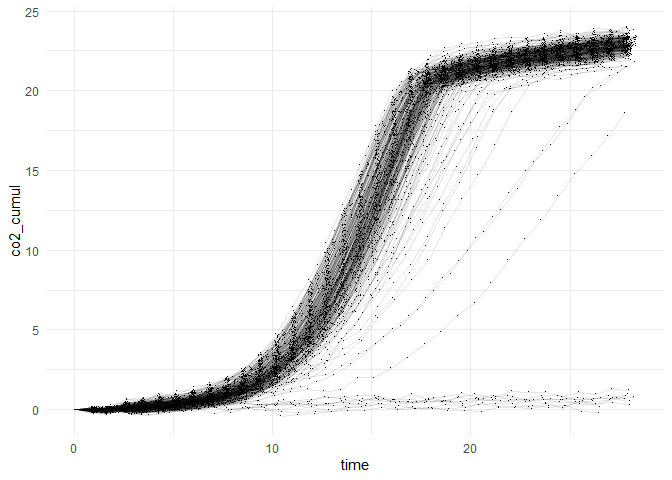
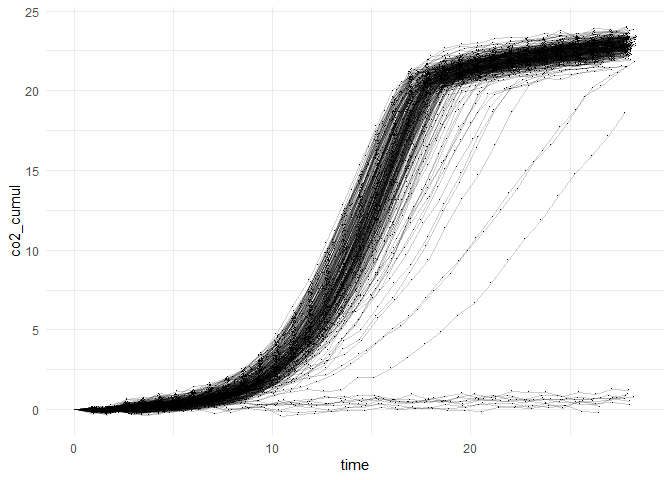
modified:   rapports/data_phenot_overview.md 	modified:   rapports/data_phenot_overview_files/figure-gfm/unnamed-chunk-7-1.png

Changed region(s): [[0.125, 0.0625, 0.9375, 0.875]]

diff --git a/rapports/data_phenot_overview.md b/rapports/data_phenot_overview.md
@@ -1,4 +1,4 @@
-```r
+``` r
 library(magrittr)
 library(dplyr)
 library(stringr)
@@ -7,7 +7,7 @@ library(ggplot2)
 
 # Data import
 
-```r
+``` r
 data_phenot <- read.csv("data/data_robot/data_phenot.csv") %>%
   mutate(date_hour = as.Date(date_hour, format = "%d/%m/%Y %H:%M:%S")) %>%
   as_tibble()
@@ -31,7 +31,7 @@ production with the assumption that the lost weight is only/mostly CO2.
 
 *Author : Hugo Devillers*
 
-```r
+``` r
 weight_to_cumul <- function(w, start = 2, t.ref = 2, vol = 15.2) {
 
   # Compute the weight of reference
@@ -42,47 +42,47 @@ weight_to_cumul <- function(w, start = 2, t.ref = 2, vol = 15.2) {
   } else {
     w.ref <- rep(mean(w[t.ref]), w.len)
   }
-
+  
   # Compute the cumulated values
   out <- (w.ref - w) / vol * 1000
-
+  
   # Reset to 0 first values if required
   if( start > 1) {
     out[seq(1, start-1, by=1)] <- 0
   }
-
+  
   return(out)
 }
 ```
 
 `moving_diff` : function computing a moving difference between points
 separated of l-1 points to estimate the local slope (i.e. CO2 flow rate,
-here) in the # middle of these two points.
+here) in the middle of these two points.
 
 *Author : Hugo Devillers*
 
-```r
+``` r
 moving_diff <- function(x, ti, l=3) {
-
+  
   # Extract parameters
   r <- floor(l/2)
   n <- length(x)
-
+  
   # Extend time
   dt1 <- ti[2] -ti[1]
   dtn <- ti[n] - ti[n-1]
   exti1 <- seq(ti[1] - n * dt1, ti[1] - dt1, by = dt1)
   extin <- seq(ti[n] + dtn, ti[n] + n * dtn, by= dtn)
   ti <- c(exti1, ti, extin)
-
+  
   # Extend x (values)
   x <- c(rep(x[1], r), x, rep(x[n], r))
-
+  
   # New parameters
   n <- length(x)
   from <- 1:(n-l+1)
   to <- l:n
-
+  
   # Compute sliding weighted diff
   tmp <- mapply(function(fr, to, r, x, ti){
     num <- mean(x[(fr+r):to]) - mean(x[fr:(fr+r)])
@@ -90,7 +90,7 @@ moving_diff <- function(x, ti, l=3) {
     den <- mean(ti[c((fr+r),to)]) - mean(ti[c(fr,(fr+r))])
     return( num / den )
   }, fr = from, to = to, MoreArgs = list(x = x, r=r, ti=ti), SIMPLIFY = TRUE)
-
+  
   # Return the output
   return(tmp) 
 }
@@ -101,7 +101,7 @@ moving_diff <- function(x, ti, l=3) {
 Computes of CO<sub>2</sub> cumulation and CO<sub>2</sub> flow rate at
 each time *t*.
 
-```r
+``` r
 data_phenot %<>%
   group_by(robot_id) %>%
   arrange(robot_id, time) %>%
@@ -111,9 +111,9 @@ data_phenot %<>%
   ungroup()
 ```
 
-# Extracts statistiques from the CO2 cumulation and CO2 flow rate
+# Extracts statistics from the CO2 cumulation and CO2 flow rate
 
-```r
+``` r
 data_phenot_parms <- data_phenot %>%
   group_by(robot_id) %>%
   summarise(date_start = min(date_hour),
@@ -141,11 +141,11 @@ data_phenot_parms <- data_phenot %>%
 
 ## Trends of weight loss time
 
-```r
+``` r
 ggplot(data_phenot) +
   aes(x = time, y = co2_cumul, group = robot_id) +
   geom_point(shape = ".") +
-  geom_line(alpha = 0.1) +
+  geom_line(alpha = 0.2) +
   theme_minimal()
 ```
 
@@ -153,7 +153,7 @@ ggplot(data_phenot) +
 
 ## Trends of flow rate over time
 
-```r
+``` r
 ggplot(data_phenot) +
   aes(x = time, y = co2_flowrate_3p, group = robot_id) +
   geom_point(shape = ".") +
